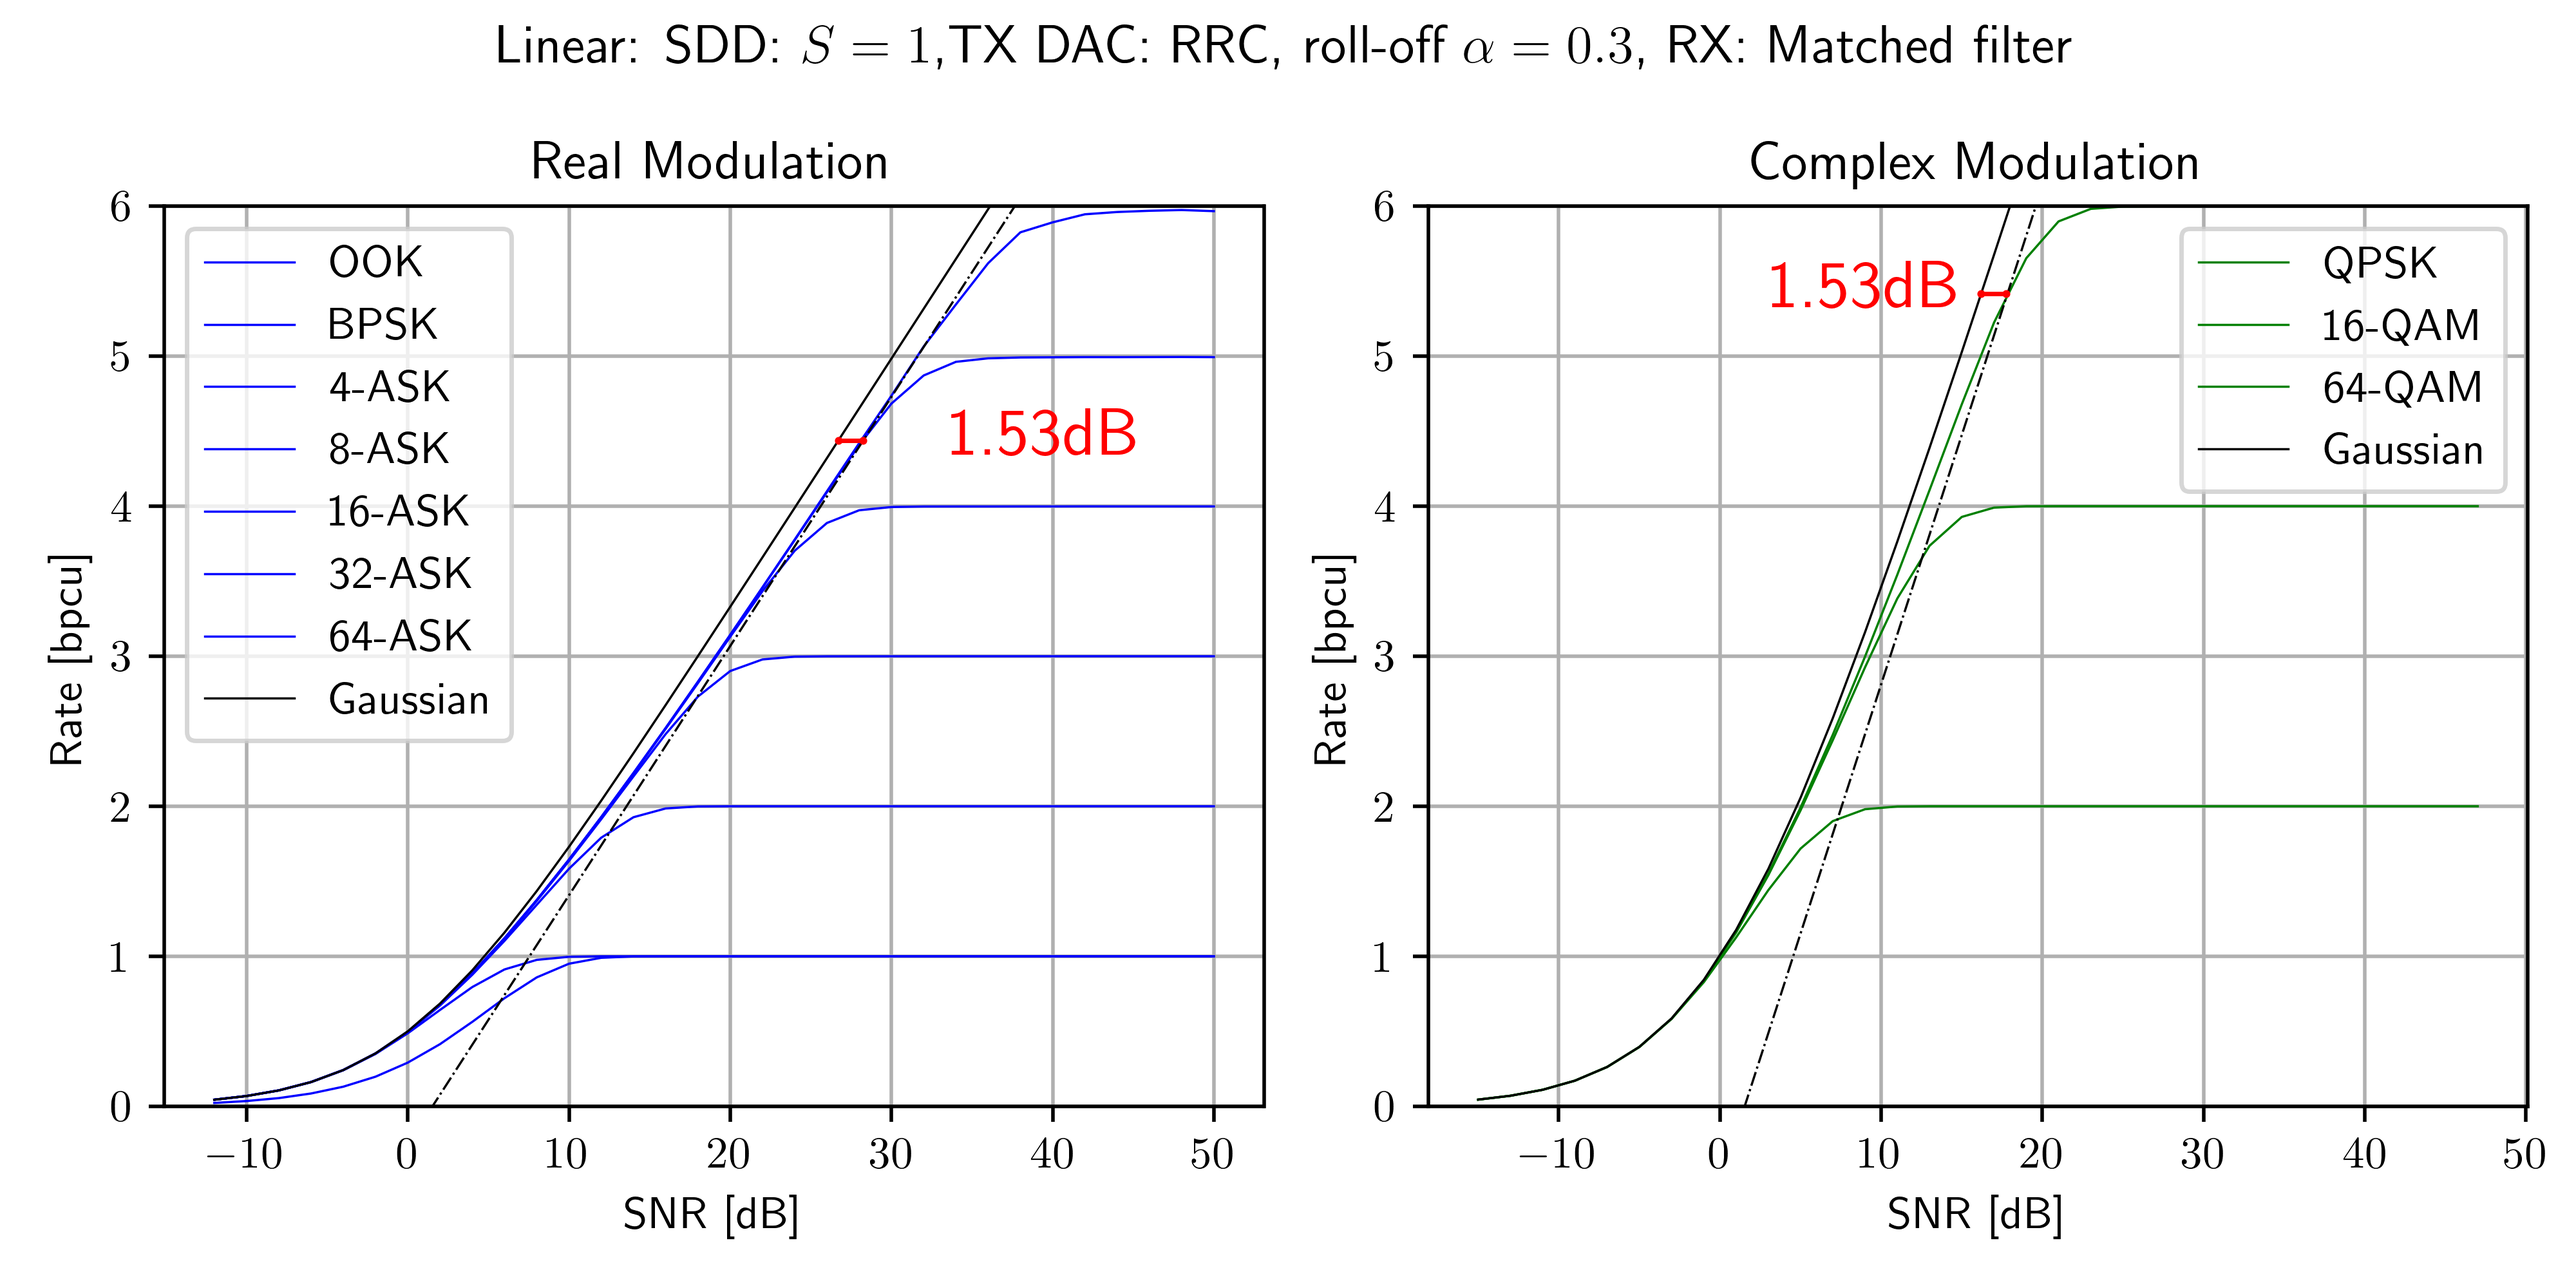
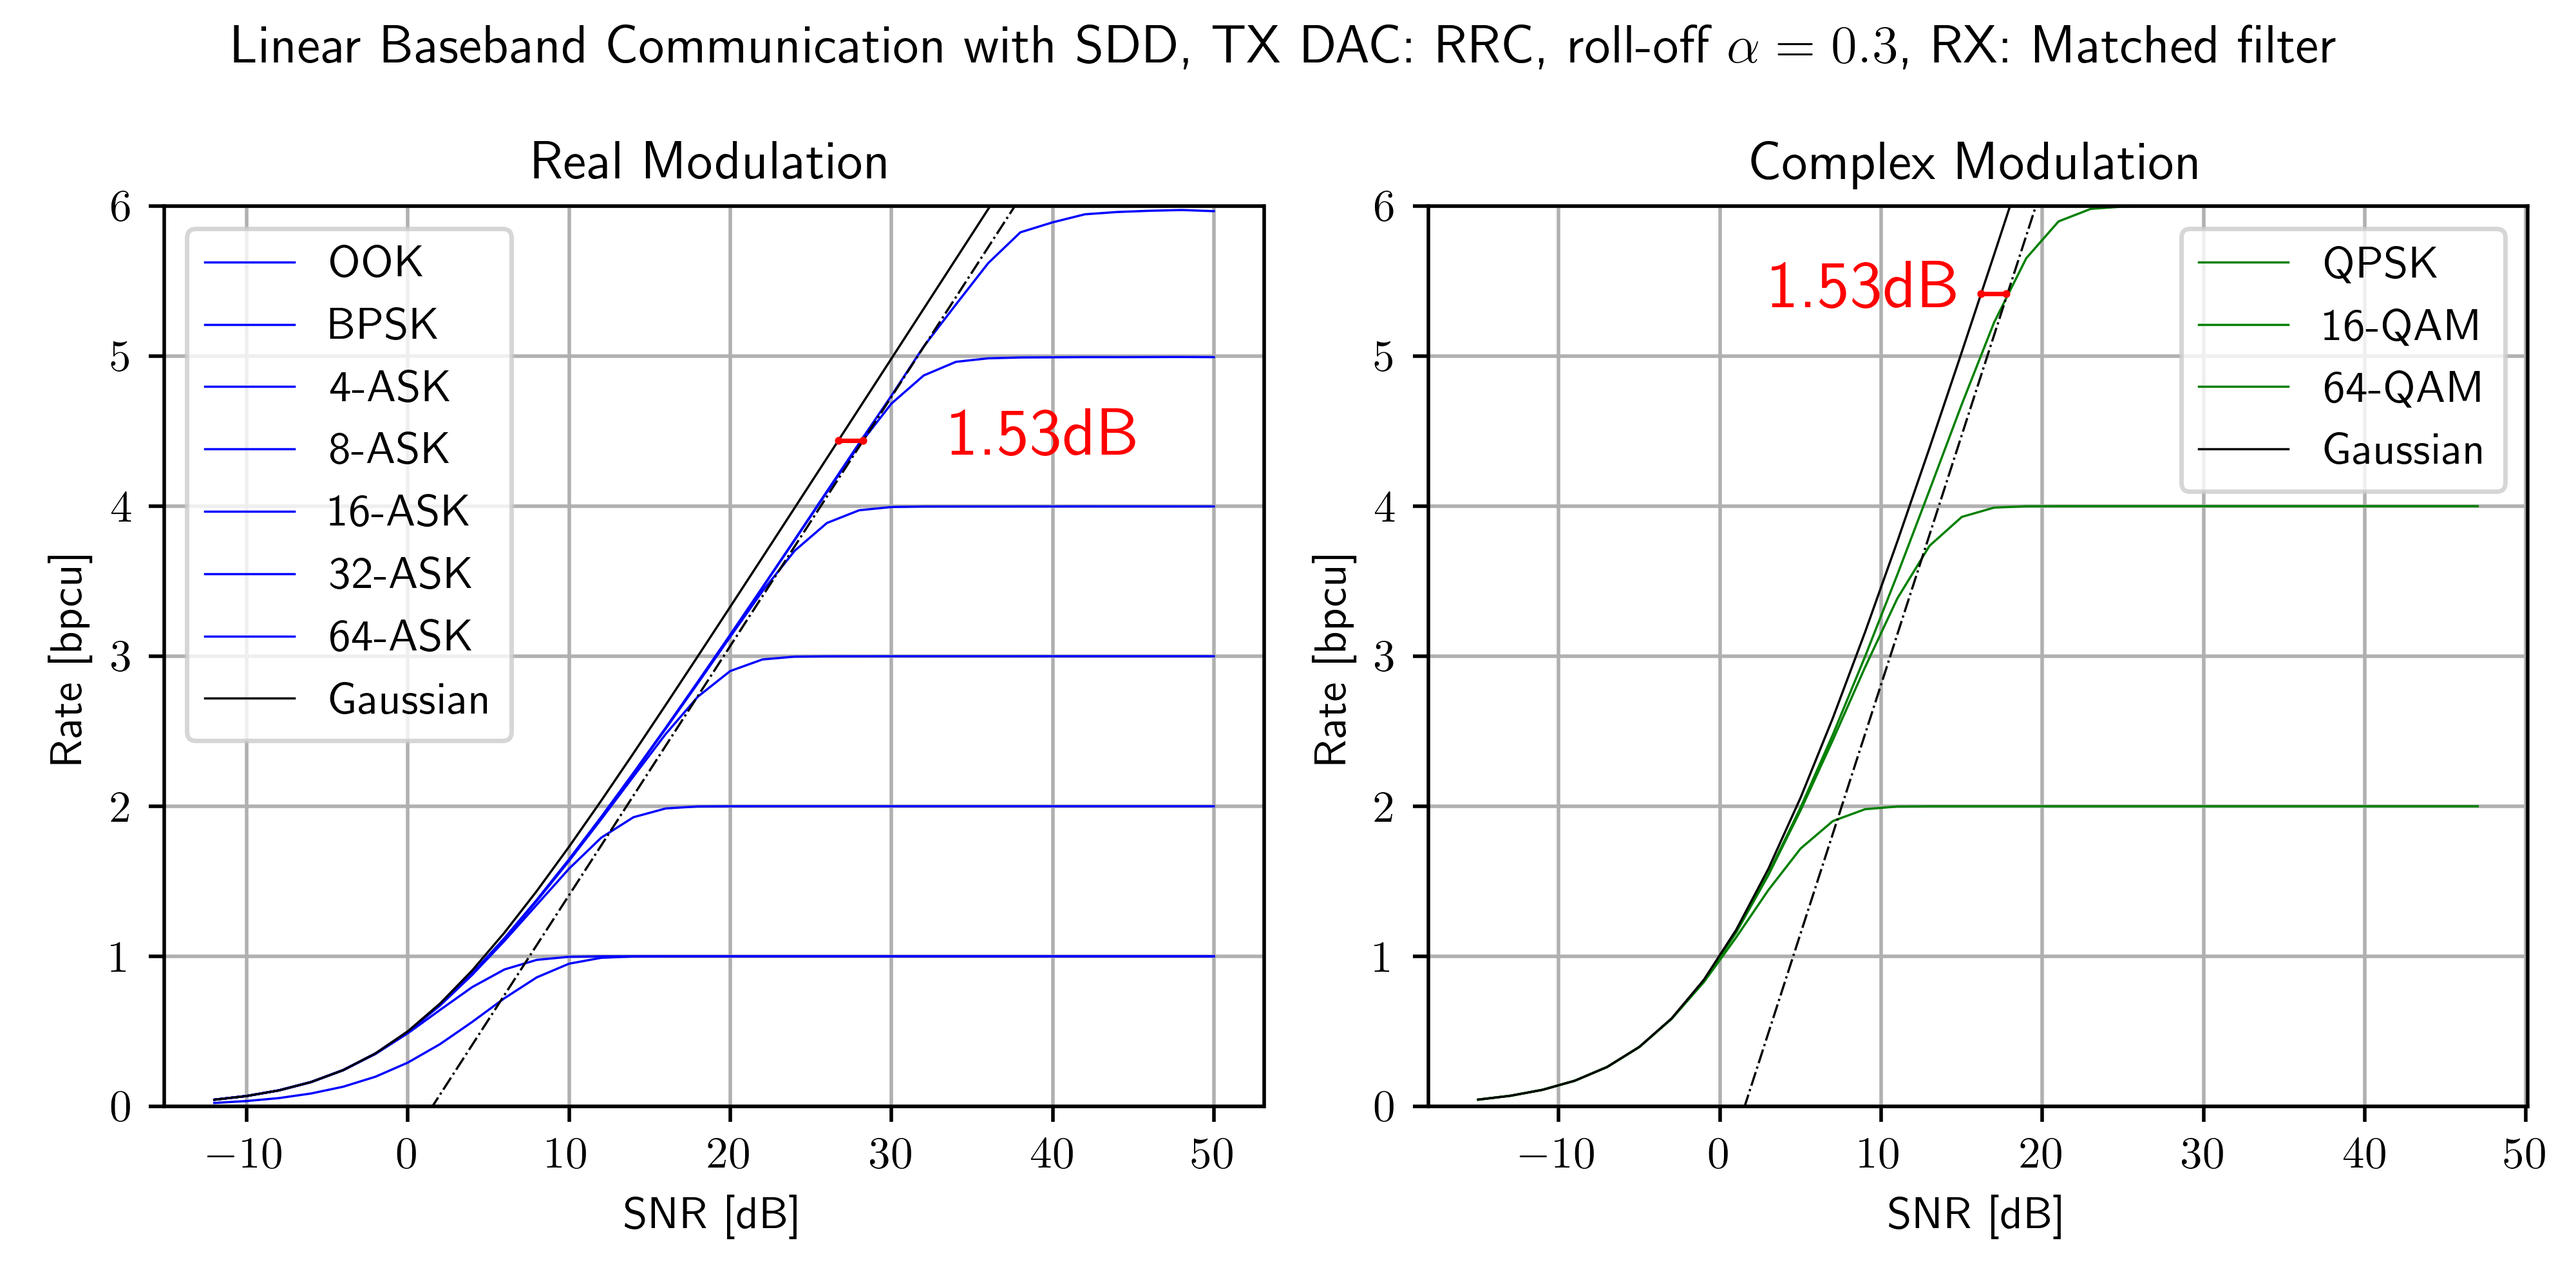
Updated plots.

Changed region(s): [[0.0938, 0.0, 0.9062, 0.062]]

diff --git a/results/ex2_plot.py b/results/ex2_plot.py
@@ -122,7 +122,7 @@ ax2.set_title(r"Complex Modulation")
 fig.tight_layout()
 fig.subplots_adjust(top=0.84)
 fig.suptitle(
-    r"Linear: SDD: $S=1$,TX DAC: RRC, roll-off $\alpha=0.3$, RX: Matched filter",
+    r"Linear Baseband Communication with SDD, TX DAC: RRC, roll-off $\alpha=0.3$, RX: Matched-filter",
     fontsize=12,
 )
 

diff --git a/results/ex3_plot.py b/results/ex3_plot.py
@@ -62,7 +62,7 @@ plt.xlim((-5, 30))
 plt.ylim((0, 2))
 
 plt.title(
-    r"$4$-ASK, Baseband Communication with Nonlinear Transmit Amplifier",
+    r"Baseband Communication with Nonlinear Transmit Amplifier",
     fontsize=12,
 )
 
